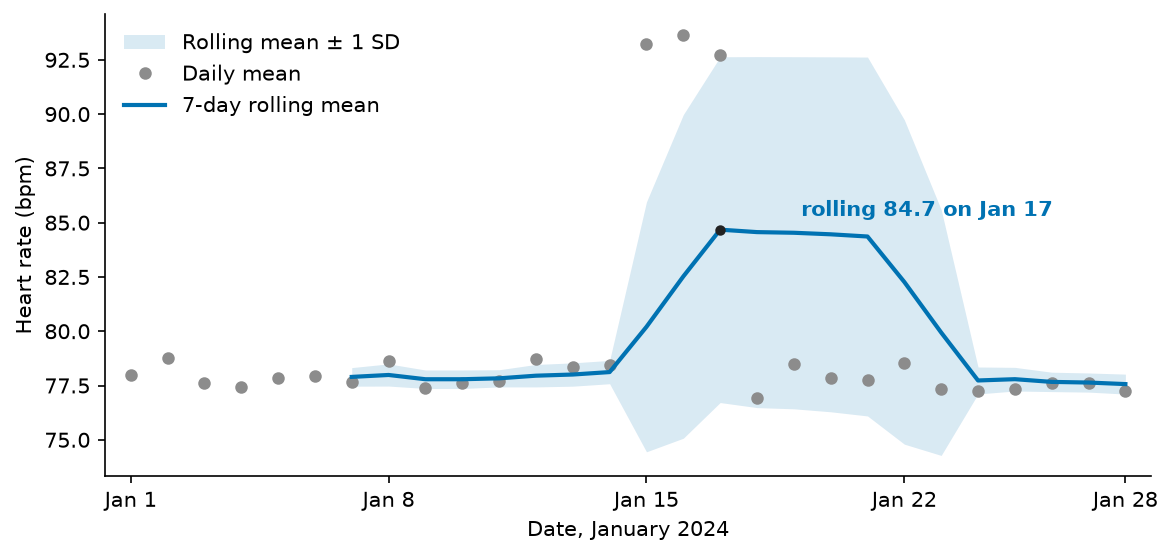
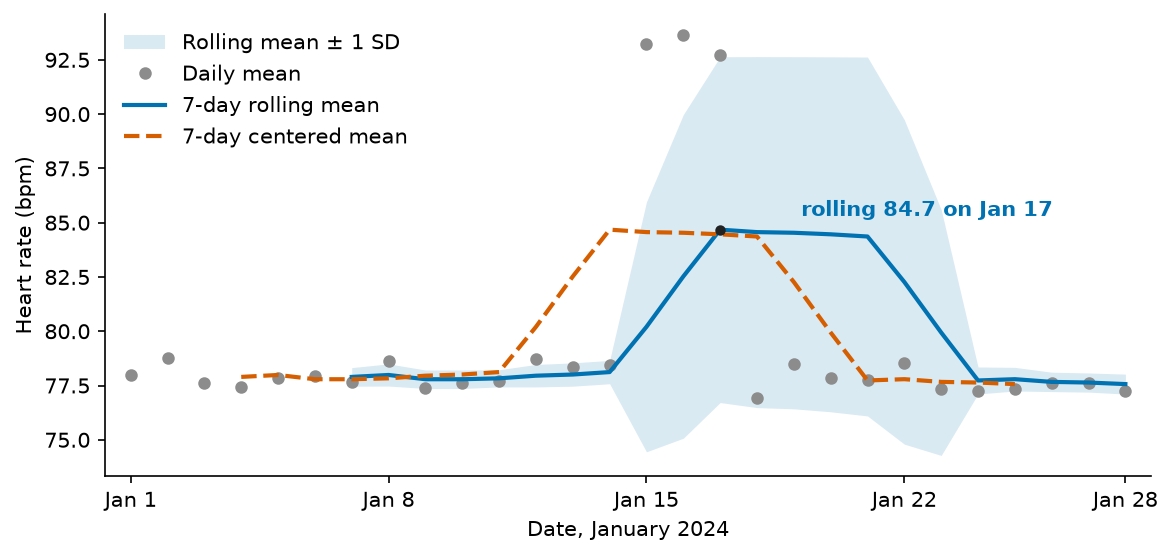
docs: frame Lecture 09 with trend, seasonality and a question map; restore the centered window

diff --git a/09/scripts/generate_lecture_figures.py b/09/scripts/generate_lecture_figures.py
@@ -152,6 +152,28 @@ def ed_arrivals():
 # ---------------------------------------------------------------- block 1
 
 
+def series_components():
+    """Trend, Seasonality, and Noise: a year of daily clinic visits as the sum of three parts."""
+    days = pd.date_range("2023-01-01", "2023-12-31", freq="D")
+    n = np.arange(len(days))
+    trend = 100 + 20 * n / (len(days) - 1)
+    season = 10 * np.cos(2 * np.pi * (n - 20) / 365)  # winter peak in late January
+    noise = np.random.default_rng(9).normal(0, 3, len(days))
+    fig, axes = plt.subplots(1, 4, figsize=(12, 2.8), gridspec_kw={"width_ratios": [2.2, 1, 1, 1]})
+    parts = [("Daily clinic visits", trend + season + noise, GREY), ("= trend", trend, VERMILLION),
+             ("+ seasonality", season, BLUE), ("+ noise", noise, GREY)]
+    for ax, (title, values, color) in zip(axes, parts):
+        ax.plot(days, values, color=color, lw=1 if color == GREY else 2)
+        ax.set_title(title)
+        ax.xaxis.set_major_locator(mdates.MonthLocator(bymonth=[1, 7]))
+        ax.xaxis.set_major_formatter(mdates.DateFormatter("%b"))
+    axes[0].plot(days, trend, "--", color=VERMILLION, lw=2)
+    axes[0].set_ylabel("Visits per day")
+    for ax in axes[2:]:
+        ax.set_ylim(-13, 13)
+    save(fig, "series_components.png")
+
+
 def forms_of_time():
     """Forms of Time: a timestamp, a period, and elapsed time on one admission."""
     admitted = pd.Timestamp("2024-02-29 20:15")
@@ -668,8 +690,12 @@ def daily_hr_rolling_ewm():
     ax.set(ylabel="Heart rate (bpm)", xlabel="Date, January 2024", xlim=(xd[0] - 0.7, xd[-1] + 0.7))
     ax.xaxis.set_major_locator(mdates.DayLocator(bymonthday=[1, 8, 15, 22, 28]))
     ax.xaxis.set_major_formatter(mdates.DateFormatter("%b %-d"))
+    centered = daily_hr.rolling(7, center=True).mean()
+    assert centered.idxmax() == pd.Timestamp("2024-01-14") and round(centered["2024-01-18"], 1) == 84.4  # plateau Jan 14 to 18
+    center_line, = ax.plot(xd, centered, "--", color=VERMILLION, lw=2, label="7-day centered mean")
     ax.legend(loc="upper left", frameon=False)
     fig.savefig(MEDIA_DIR / "daily_hr_rolling.png", dpi=150, bbox_inches="tight", facecolor="white")
+    center_line.remove()
 
     ax.plot(xd, ewm, "--", color=ORANGE, lw=2.2, label="EWM, span 7")
     ax.plot(xp, ewm[peak], "o", color=INK, ms=4, zorder=4)
@@ -1016,7 +1042,7 @@ def types_of_time_series():
 
 if __name__ == "__main__":
     MEDIA_DIR.mkdir(exist_ok=True)
-    for make in [forms_of_time, regular_irregular, icu_panel_hr_utc, text_vs_datetime_axis, date_range_aliases,
+    for make in [series_components, forms_of_time, regular_irregular, icu_panel_hr_utc, text_vs_datetime_axis, date_range_aliases,
                  two_clinics_utc, clock_changes, time_series_indexing, resampling_example, resample_bins_2h,
                  daily_reading_counts, charted_temp_upsampling, per_patient_bins, gap_run_tiles,
                  daily_hr_rolling_ewm, count_vs_time_window, window_weights, shifting_lagging,

diff --git a/09/README.md b/09/README.md
@@ -24,7 +24,7 @@ curl -fsSL https://raw.githubusercontent.com/christopherseaman/datasci_217/main/
 <callout icon="🧭" color="blue_bg">
 	# This Lecture
 	## Covers
-	- **Dated data**: timestamps, panels, Python `datetime`, the DatetimeIndex, and calendar slicing.
+	- **Dated data**: timestamps, panels, trend and seasonality, Python `datetime`, the DatetimeIndex, and calendar slicing.
 	- **Resampling and rolling windows**: time bins, missing readings, per-patient grids, gap runs, and count and time windows.
 	- **Time series visualization**: spacing and profile checks, a smoother over raw readings, and line breaks at gaps.
 	- **Clocks and honest history**: UTC conversion, clock changes, past-only windows, and availability at prediction time.
@@ -70,6 +70,26 @@ _Some time series are as regular as a Swiss watch; others are as unpredictable a
 - **Grain**: what one row represents, stated before computing anything: "one heart-rate reading for one patient at one time."
 
 ![A panel: three patients' charted heart rates on November 3, 2024, one line per patient_id; P01 rises from 88 to 118 bpm, P02 stays near 70, and P03 falls from 104 to 92.](media/icu_panel_hr_utc.png)
+
+## Trend, Seasonality, and Noise
+
+- **Trend**: the slow drift in a series' level, such as clinic visits rising over a year.
+- **Seasonality**: a cycle that repeats on the calendar, such as winter flu waves or Monday peaks.
+- **Noise**: the reading-to-reading scatter that remains.
+
+![A year of daily clinic visits is the sum of a trend rising from 100 to 120, a seasonal cycle of plus or minus 10 that peaks in January, and noise of a few visits a day.](media/series_components.png)
+
+### Reference Card: Time Series Questions
+
+| Question | Tool |
+| --- | --- |
+| When was each reading taken? | `pd.to_datetime()` and a DatetimeIndex |
+| What happened in March? | `.loc['2024-03']` |
+| What is the hourly or daily summary, and which bins are empty? | `resample()`, `asfreq()` |
+| What is the level under the noise? | `rolling()` |
+| Is there a trend, a cycle, or a gap? | A line plot |
+| Which event came first across sites? | `tz_localize()`, `tz_convert('UTC')` |
+| What did the chart show before this moment? | `groupby().shift()` and past-only windows |
 
 # Date and Time Data Types
 
@@ -157,6 +177,38 @@ Index([8, 20, 8], dtype='int32', name='recorded_at')
 
 ![xkcd 2867: DateTime. T2 minus T1 looks like simple subtraction until time zones and clock changes, later in this lecture, get involved.](media/xkcd_2867.png)
 
+## Selecting Rows by Date
+
+- **Time series selection**: picking rows by recording time, such as a whole month or a date range, on a sorted DatetimeIndex.
+- **Partial-string indexing**: `.loc` on a DatetimeIndex accepts partial dates such as `'2024-03'`.
+
+![Hourly heart rate, January 1 to 28, 2024: a `.loc` date range from January 15 to 17 selects all 72 hours of the three fever days, and `.loc` on January 5 selects that day's 14 rows, none from 08:00 to 17:00.](media/time_series_indexing.png)
+
+### Reference Card: Calendar Selection
+
+- `df.loc['2024-03']`: Every row in March 2024; `'2024'` selects the whole year
+- `df.loc['2024-03-01':'2024-03-07']`: A date range, both endpoints included, like label slices
+- `df.loc['2024-03-01 08:00']`: One timestamp
+- `ts['2024-03']`: The same shortcut on a Series; `df['2024-03']` on a DataFrame looks for a _column_ and raises `KeyError`
+
+### Code Snippet: Calendar Selection
+
+`study_day`, a Series named `value`, numbers the dates of January and February 2024 from 1.
+
+```python
+print(study_day.loc['2024-02'].shape)  # leap year: 29 days
+display(study_day.loc['2024-01-30':'2024-02-02'])
+```
+
+```text
+(29,)
+2024-01-30    30
+2024-01-31    31
+2024-02-01    32
+2024-02-02    33
+Freq: D, Name: value, dtype: int64
+```
+
 # Date Ranges and Frequencies
 
 - **Frequency**: the repeating rule of a regular series, such as daily or hourly.
@@ -189,40 +241,6 @@ print(pd.date_range('2024-01-01 08:00', periods=3, freq='h'))
 DatetimeIndex(['2024-01-01 08:00:00', '2024-01-01 09:00:00',
                '2024-01-01 10:00:00'],
               dtype='datetime64[us]', freq='h')
-```
-
-# Time Series Indexing and Selection
-
-- **Time series selection**: picking rows by recording time, such as a whole month or a date range, on a sorted DatetimeIndex.
-- **Partial-string indexing**: `.loc` on a DatetimeIndex accepts partial dates such as `'2024-03'`.
-
-## Basic Time Series Selection
-
-![Hourly heart rate, January 1 to 28, 2024: a `.loc` date range from January 15 to 17 selects all 72 hours of the three fever days, and `.loc` on January 5 selects that day's 14 rows, none from 08:00 to 17:00.](media/time_series_indexing.png)
-
-### Reference Card: Calendar Selection
-
-- `df.loc['2024-03']`: Every row in March 2024; `'2024'` selects the whole year
-- `df.loc['2024-03-01':'2024-03-07']`: A date range, both endpoints included, like label slices
-- `df.loc['2024-03-01 08:00']`: One timestamp
-- `ts['2024-03']`: The same shortcut on a Series; `df['2024-03']` on a DataFrame looks for a _column_ and raises `KeyError`
-
-### Code Snippet: Calendar Selection
-
-`study_day`, a Series named `value`, numbers the dates of January and February 2024 from 1.
-
-```python
-print(study_day.loc['2024-02'].shape)  # leap year: 29 days
-display(study_day.loc['2024-01-30':'2024-02-02'])
-```
-
-```text
-(29,)
-2024-01-30    30
-2024-01-31    31
-2024-02-01    32
-2024-02-02    33
-Freq: D, Name: value, dtype: int64
 ```
 
 # Resampling and Frequency Conversion
@@ -479,14 +497,14 @@ A patient with no gaps has no rows in `runs`; report 0 runs for them.
 
 # Rolling Window Operations
 
-- **Rolling window**: a fixed-size frame that slides along a series and computes a statistic at every row, such as the mean of the last seven daily blood pressures.
+- **Rolling window**: a fixed-size frame that slides along a series and computes a statistic at every row, such as the mean of the last seven daily blood pressures; averaging smooths the noise so the trend shows.
 - `resample('W').mean()` returns one row per week; `rolling(7).mean()` returns one row per original reading.
 
 ![xkcd 605: Extrapolating. Two readings make a line, not a trend; a rolling mean over several readings is steadier than any single change.](media/xkcd_605.png)
 
 ## Basic Rolling Operations
 
-![Daily mean heart rate (gray dots) and a 7-day rolling mean (blue) with its ±1 SD band: the January 15 to 17 fever lifts the rolling mean to 84.7 bpm on January 17, and it stays near there through January 21, then falls as the fever days leave the window from January 22 to 24.](media/daily_hr_rolling.png)
+![Daily mean heart rate (gray dots), its 7-day rolling mean (blue) with a ±1 SD band, and a 7-day centered mean (dashed): after the January 15 to 17 fever the rolling mean stays near 84.7 bpm from January 17 to 21, while the centered mean is that high from January 14 to 18, around the fever and one day before it starts.](media/daily_hr_rolling.png)
 
 ### Reference Card: Rolling Windows
 
@@ -495,6 +513,7 @@ A patient with no gaps has no rows in `runs`; report 0 runs for them.
 - `ts.rolling('7D').mean()`: A **time window**: the readings in the 7 days ending at each row, for irregular data such as clinic visits; needs a sorted DatetimeIndex; starts at one nonmissing reading
 - `ts.rolling('2h', closed='left').mean()`: A past-only time window: at 11:00 it covers 09:00 up to but excluding 11:00
 - `ts.rolling(window=7, min_periods=3).mean()`: Start once the window holds 3 readings, not all 7
+- `ts.rolling(window=7, center=True).mean()`: A **centered window**: 3 rows before, the current row, and 3 after; the mean lines up with the event, but it reads later rows, so it describes a finished series and never feeds an alert
 - `ax.fill_between(ts.index, mean - std, mean + std, alpha=0.2)`: Shade the figure's band on an `Axes`; `alpha` keeps the lines visible
 
 ### Code Snippet: Count Window vs Time Window

diff --git a/09/demo/demo2_telemetry_coverage.md b/09/demo/demo2_telemetry_coverage.md
@@ -323,8 +323,6 @@ Expect `All on the hour: True`, and fewer `04:00` rounds (`1566`) than any other
 
 ### 4. A reviewer asks whether a centered window flags `S0023` sooner
 
-Prerequisite: BONUS.md, Window Alignment Example, for `center=True`. Nothing in the core route or the assignment needs this.
-
 A centered window looks forward as well as back, which suits a retrospective chart review but not an alert. `min_periods` lets a trailing window start before it is full.
 
 ```python
